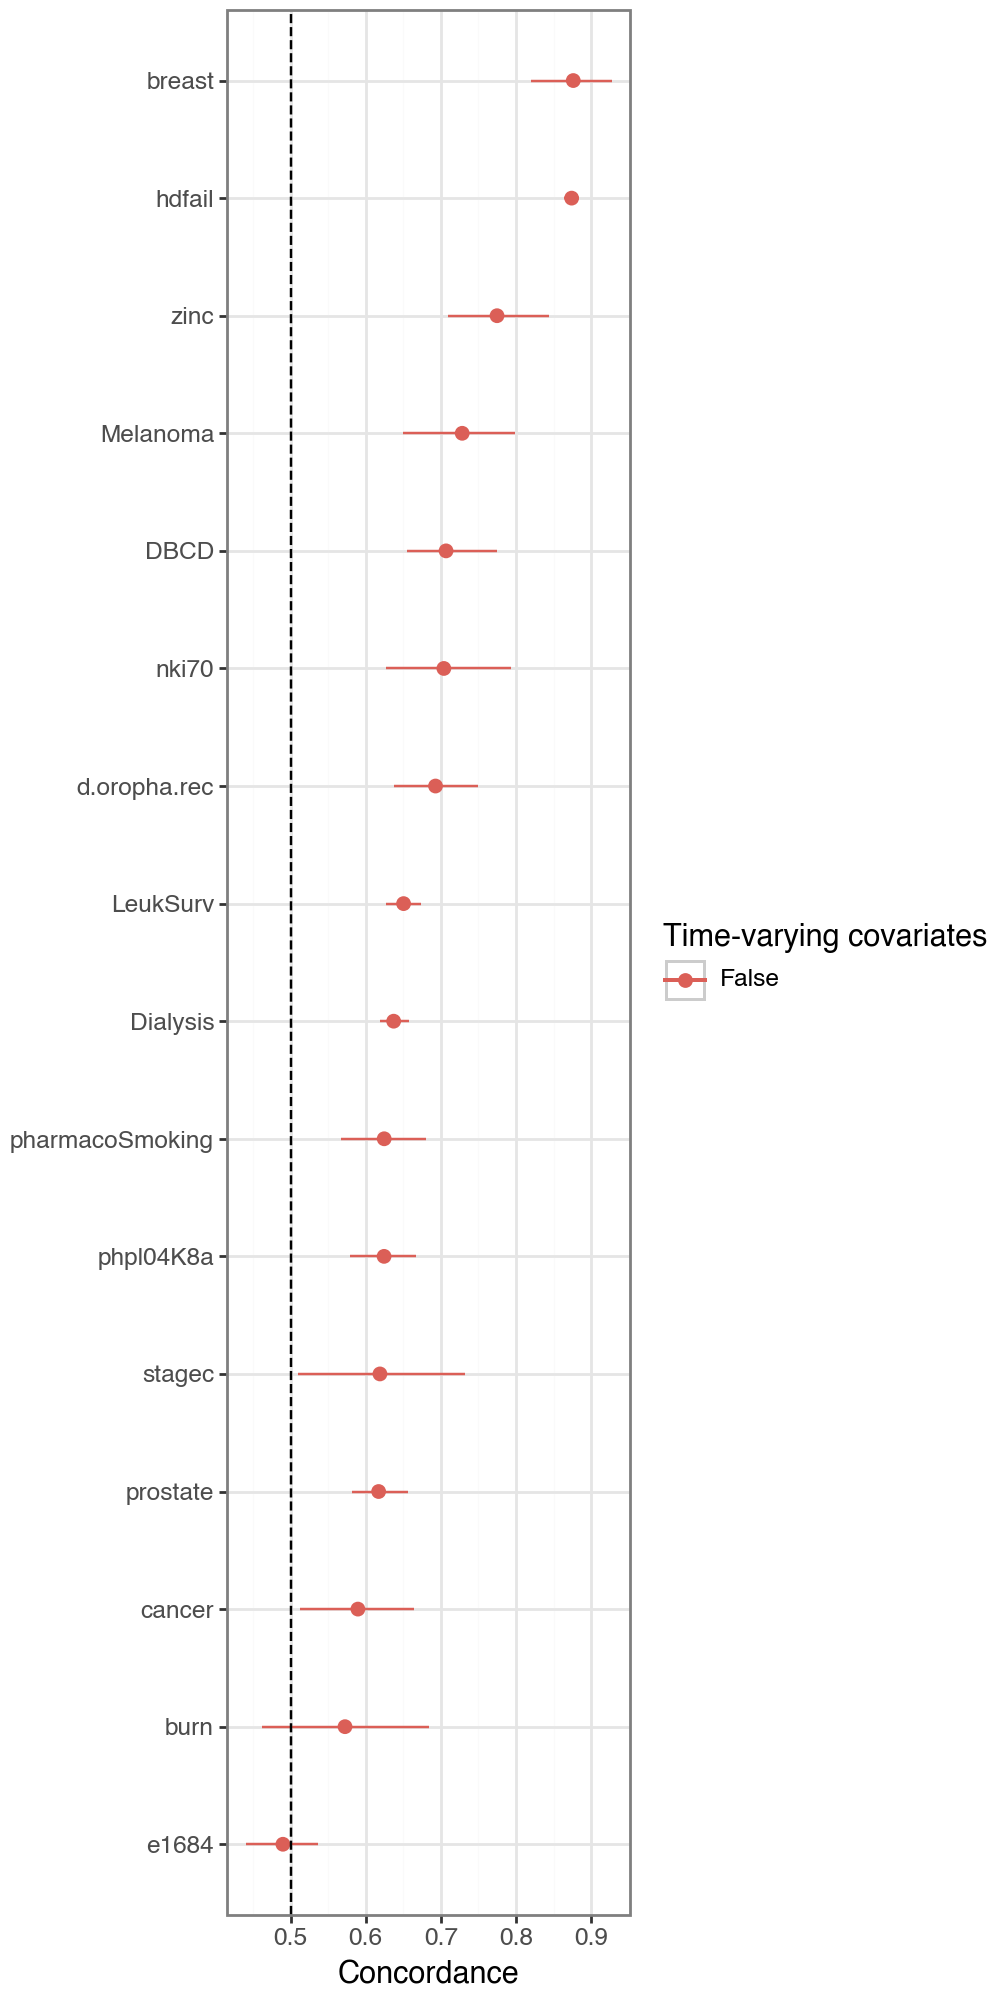
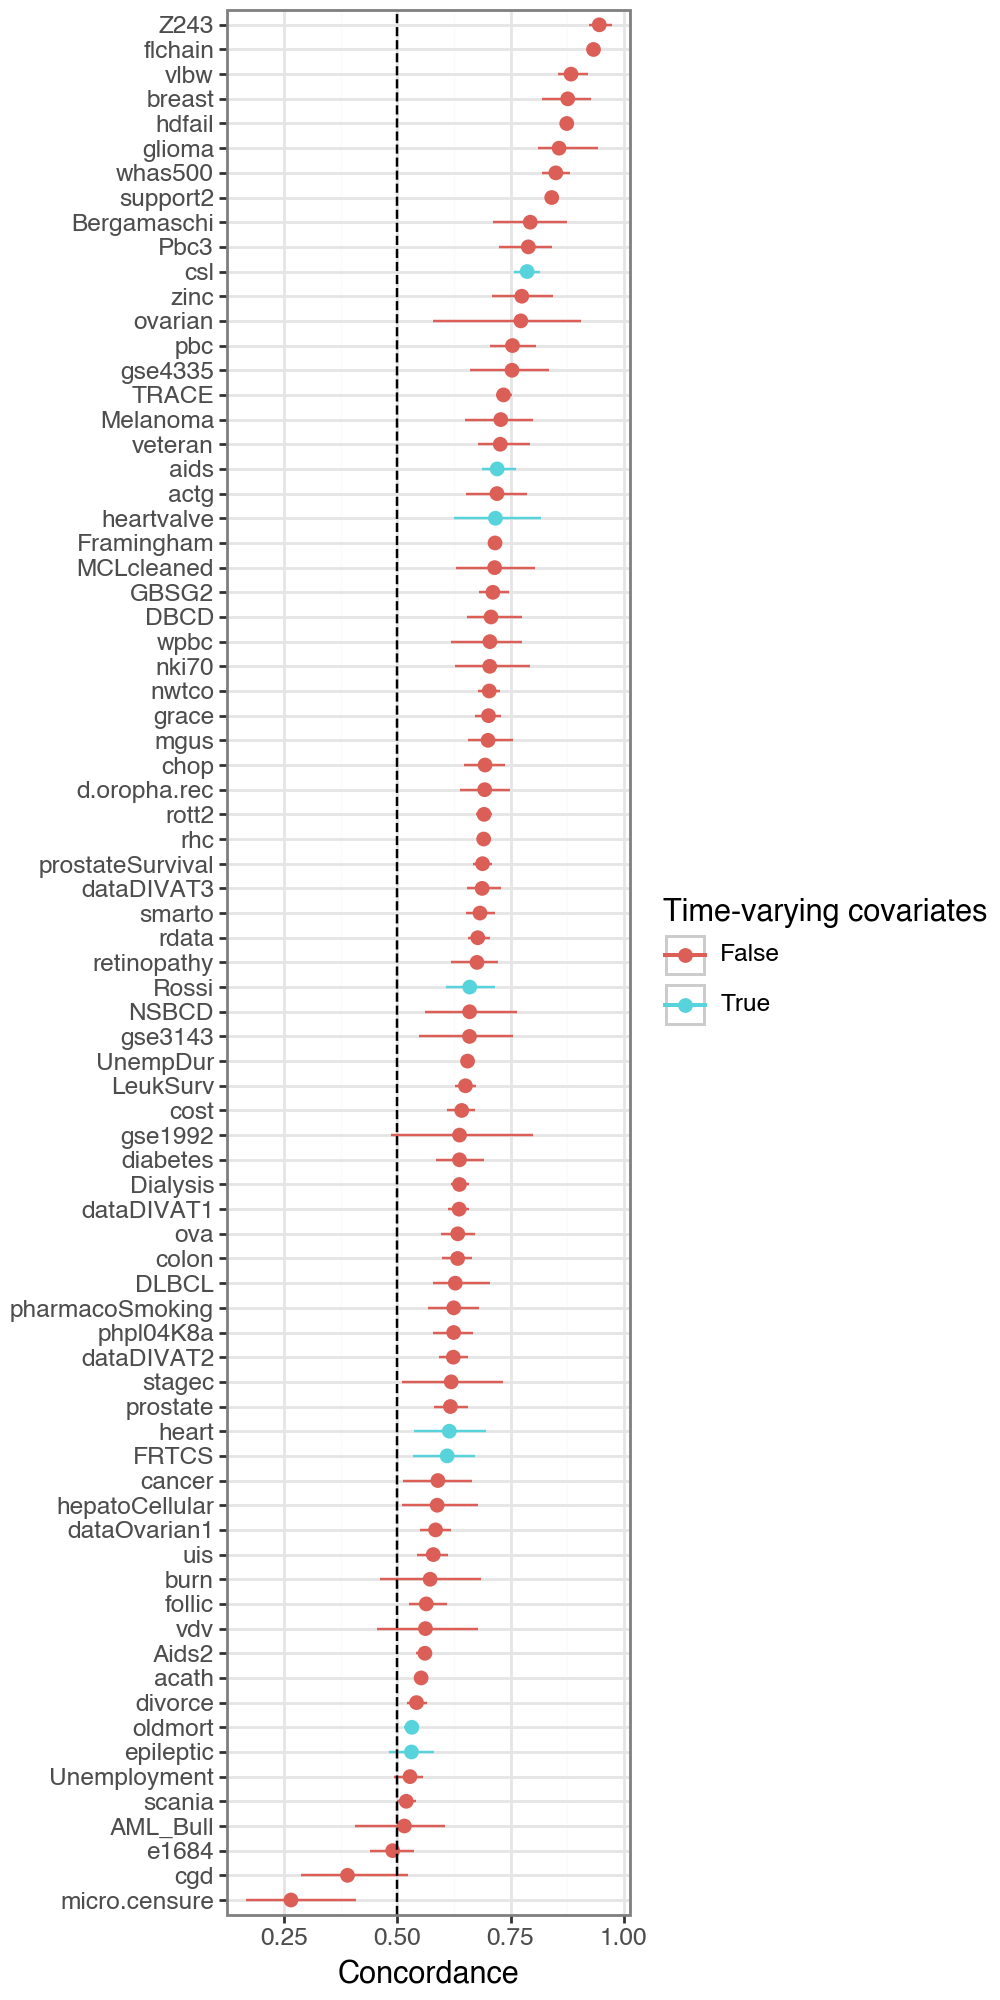
for-loop in simulation artificially stopped; proper results now

diff --git a/simulation/__main__.py b/simulation/__main__.py
@@ -76,8 +76,6 @@ def main():
     n_ds = len(loader.df_ds)
     holder_cindex = []
     for i, r in loader.df_ds.iterrows():
-        if i > 15:
-            break
         is_td, ds = r['is_td'], r['ds']
         print('Dataset %s (%i of %i)' % (ds, i+1, n_ds))
         df = loader.load_dataset(ds)['df']
